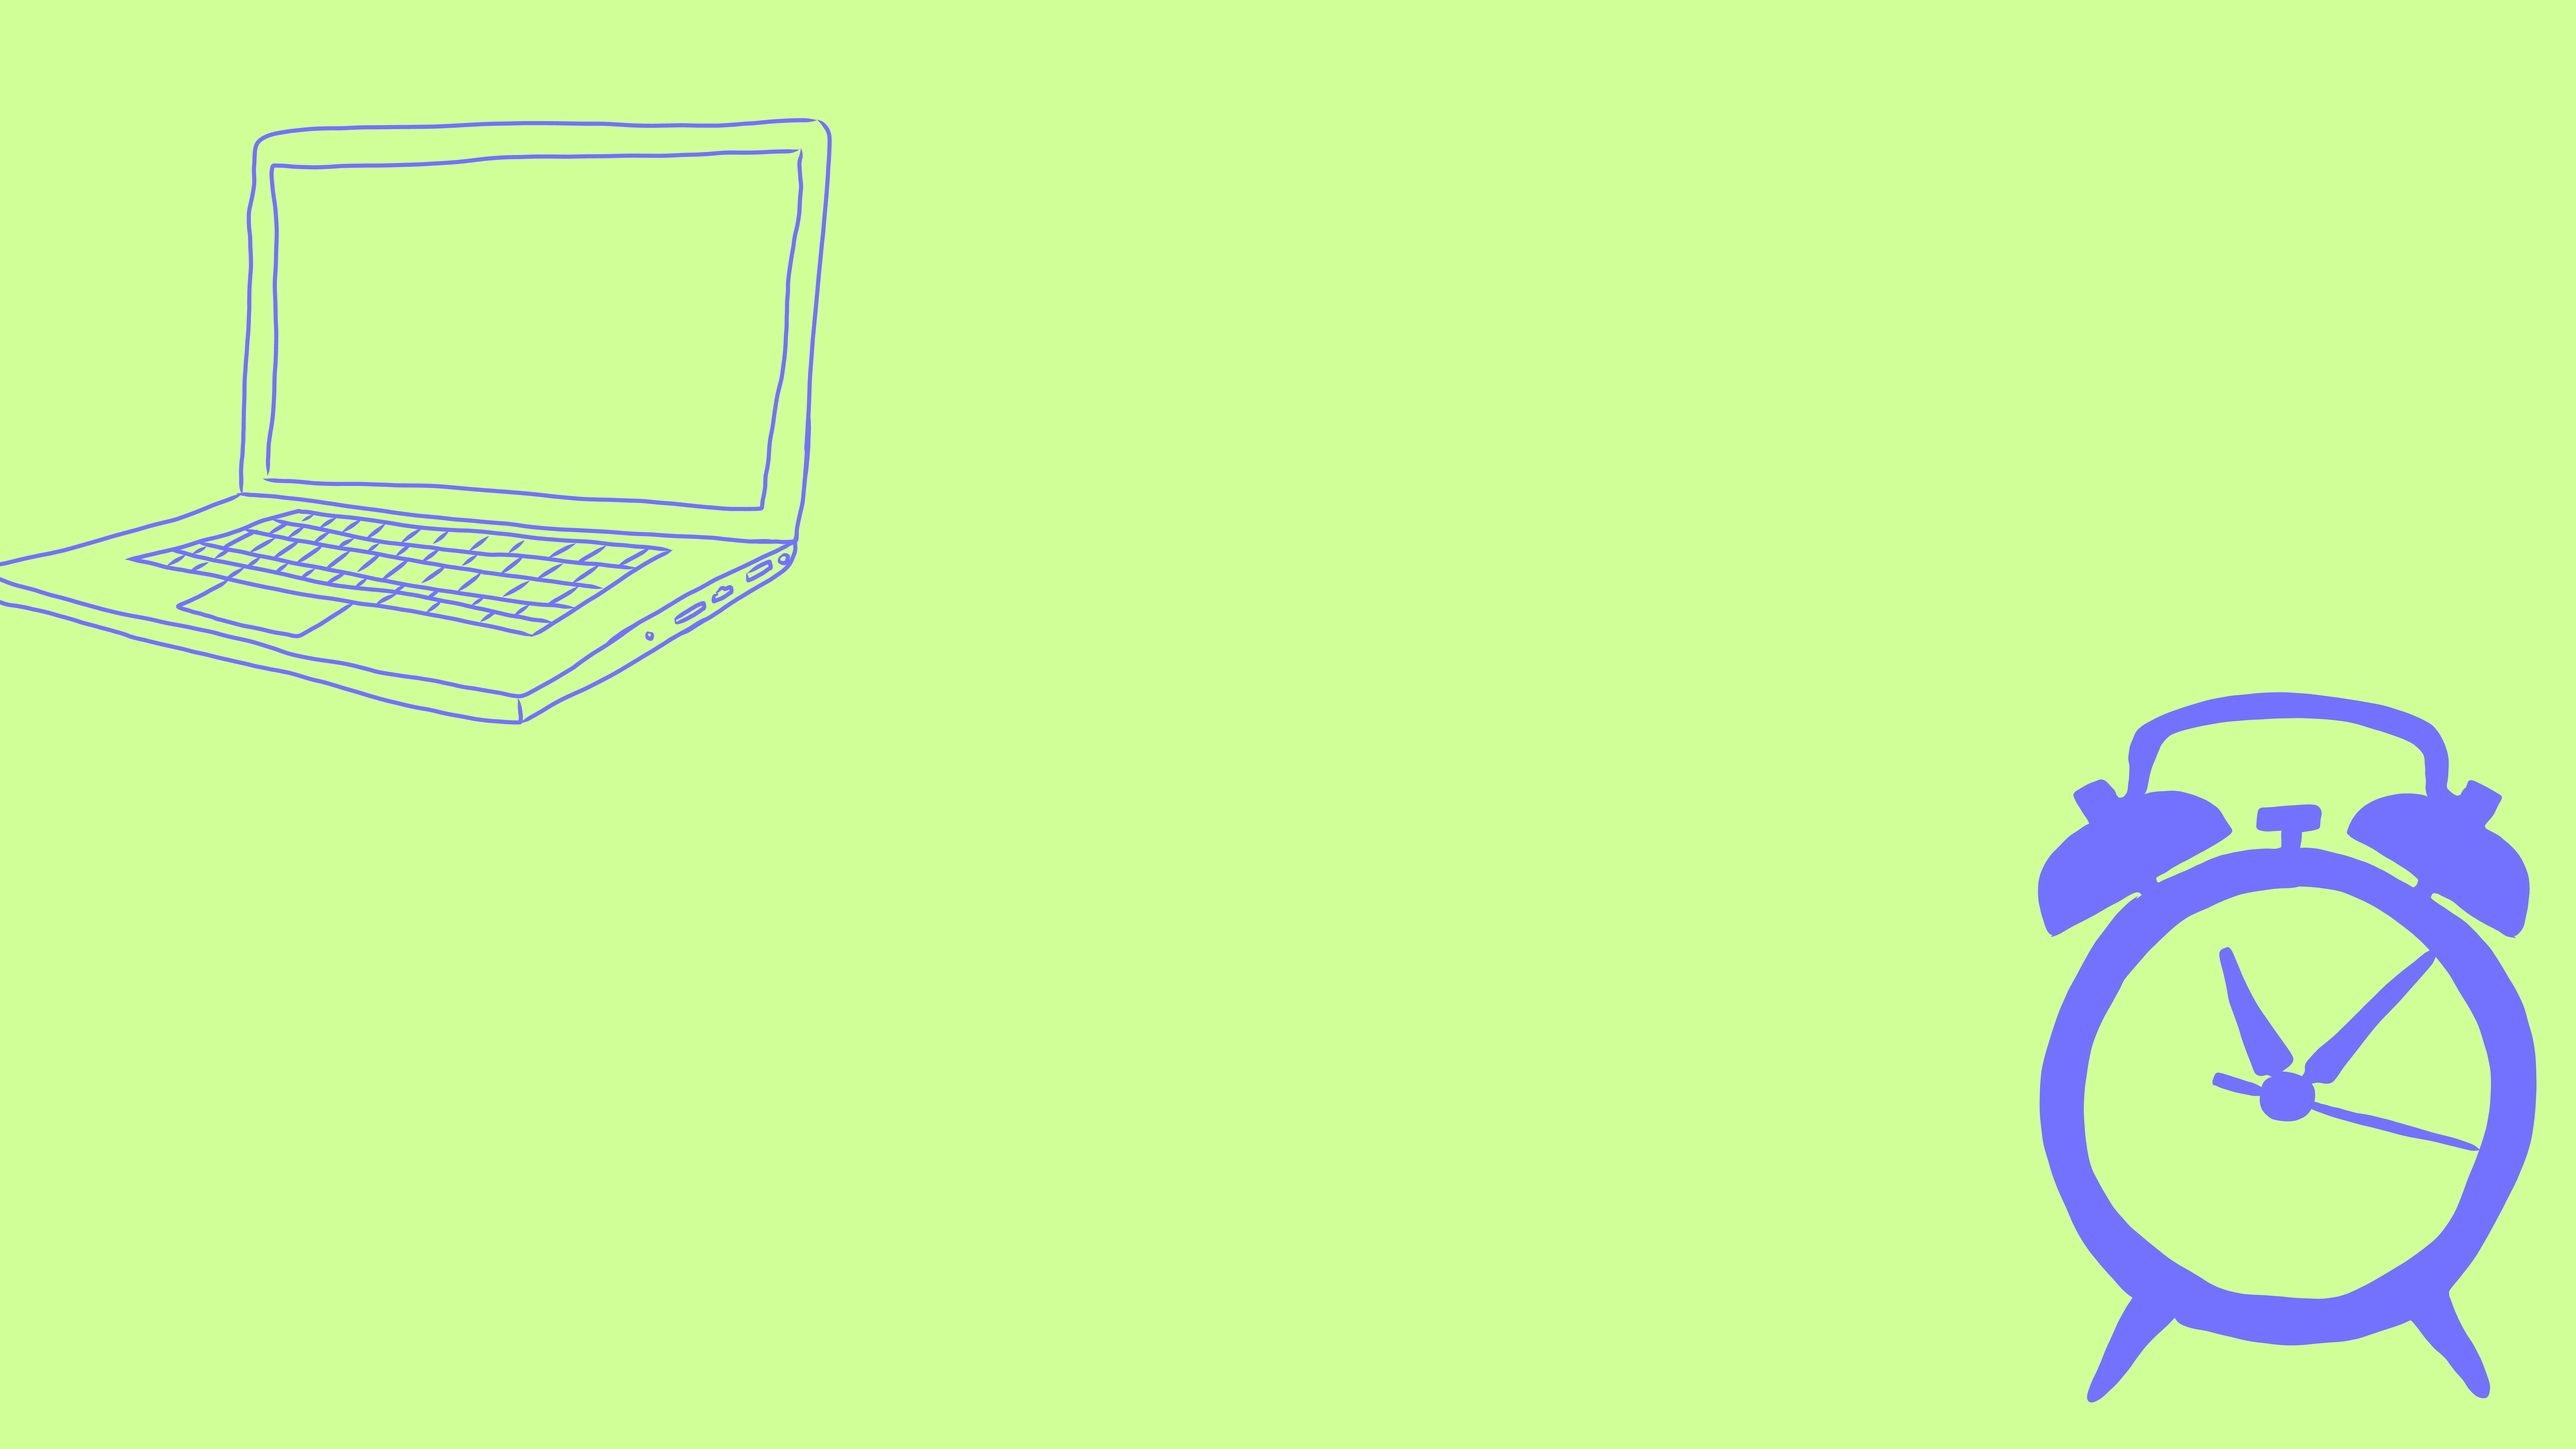
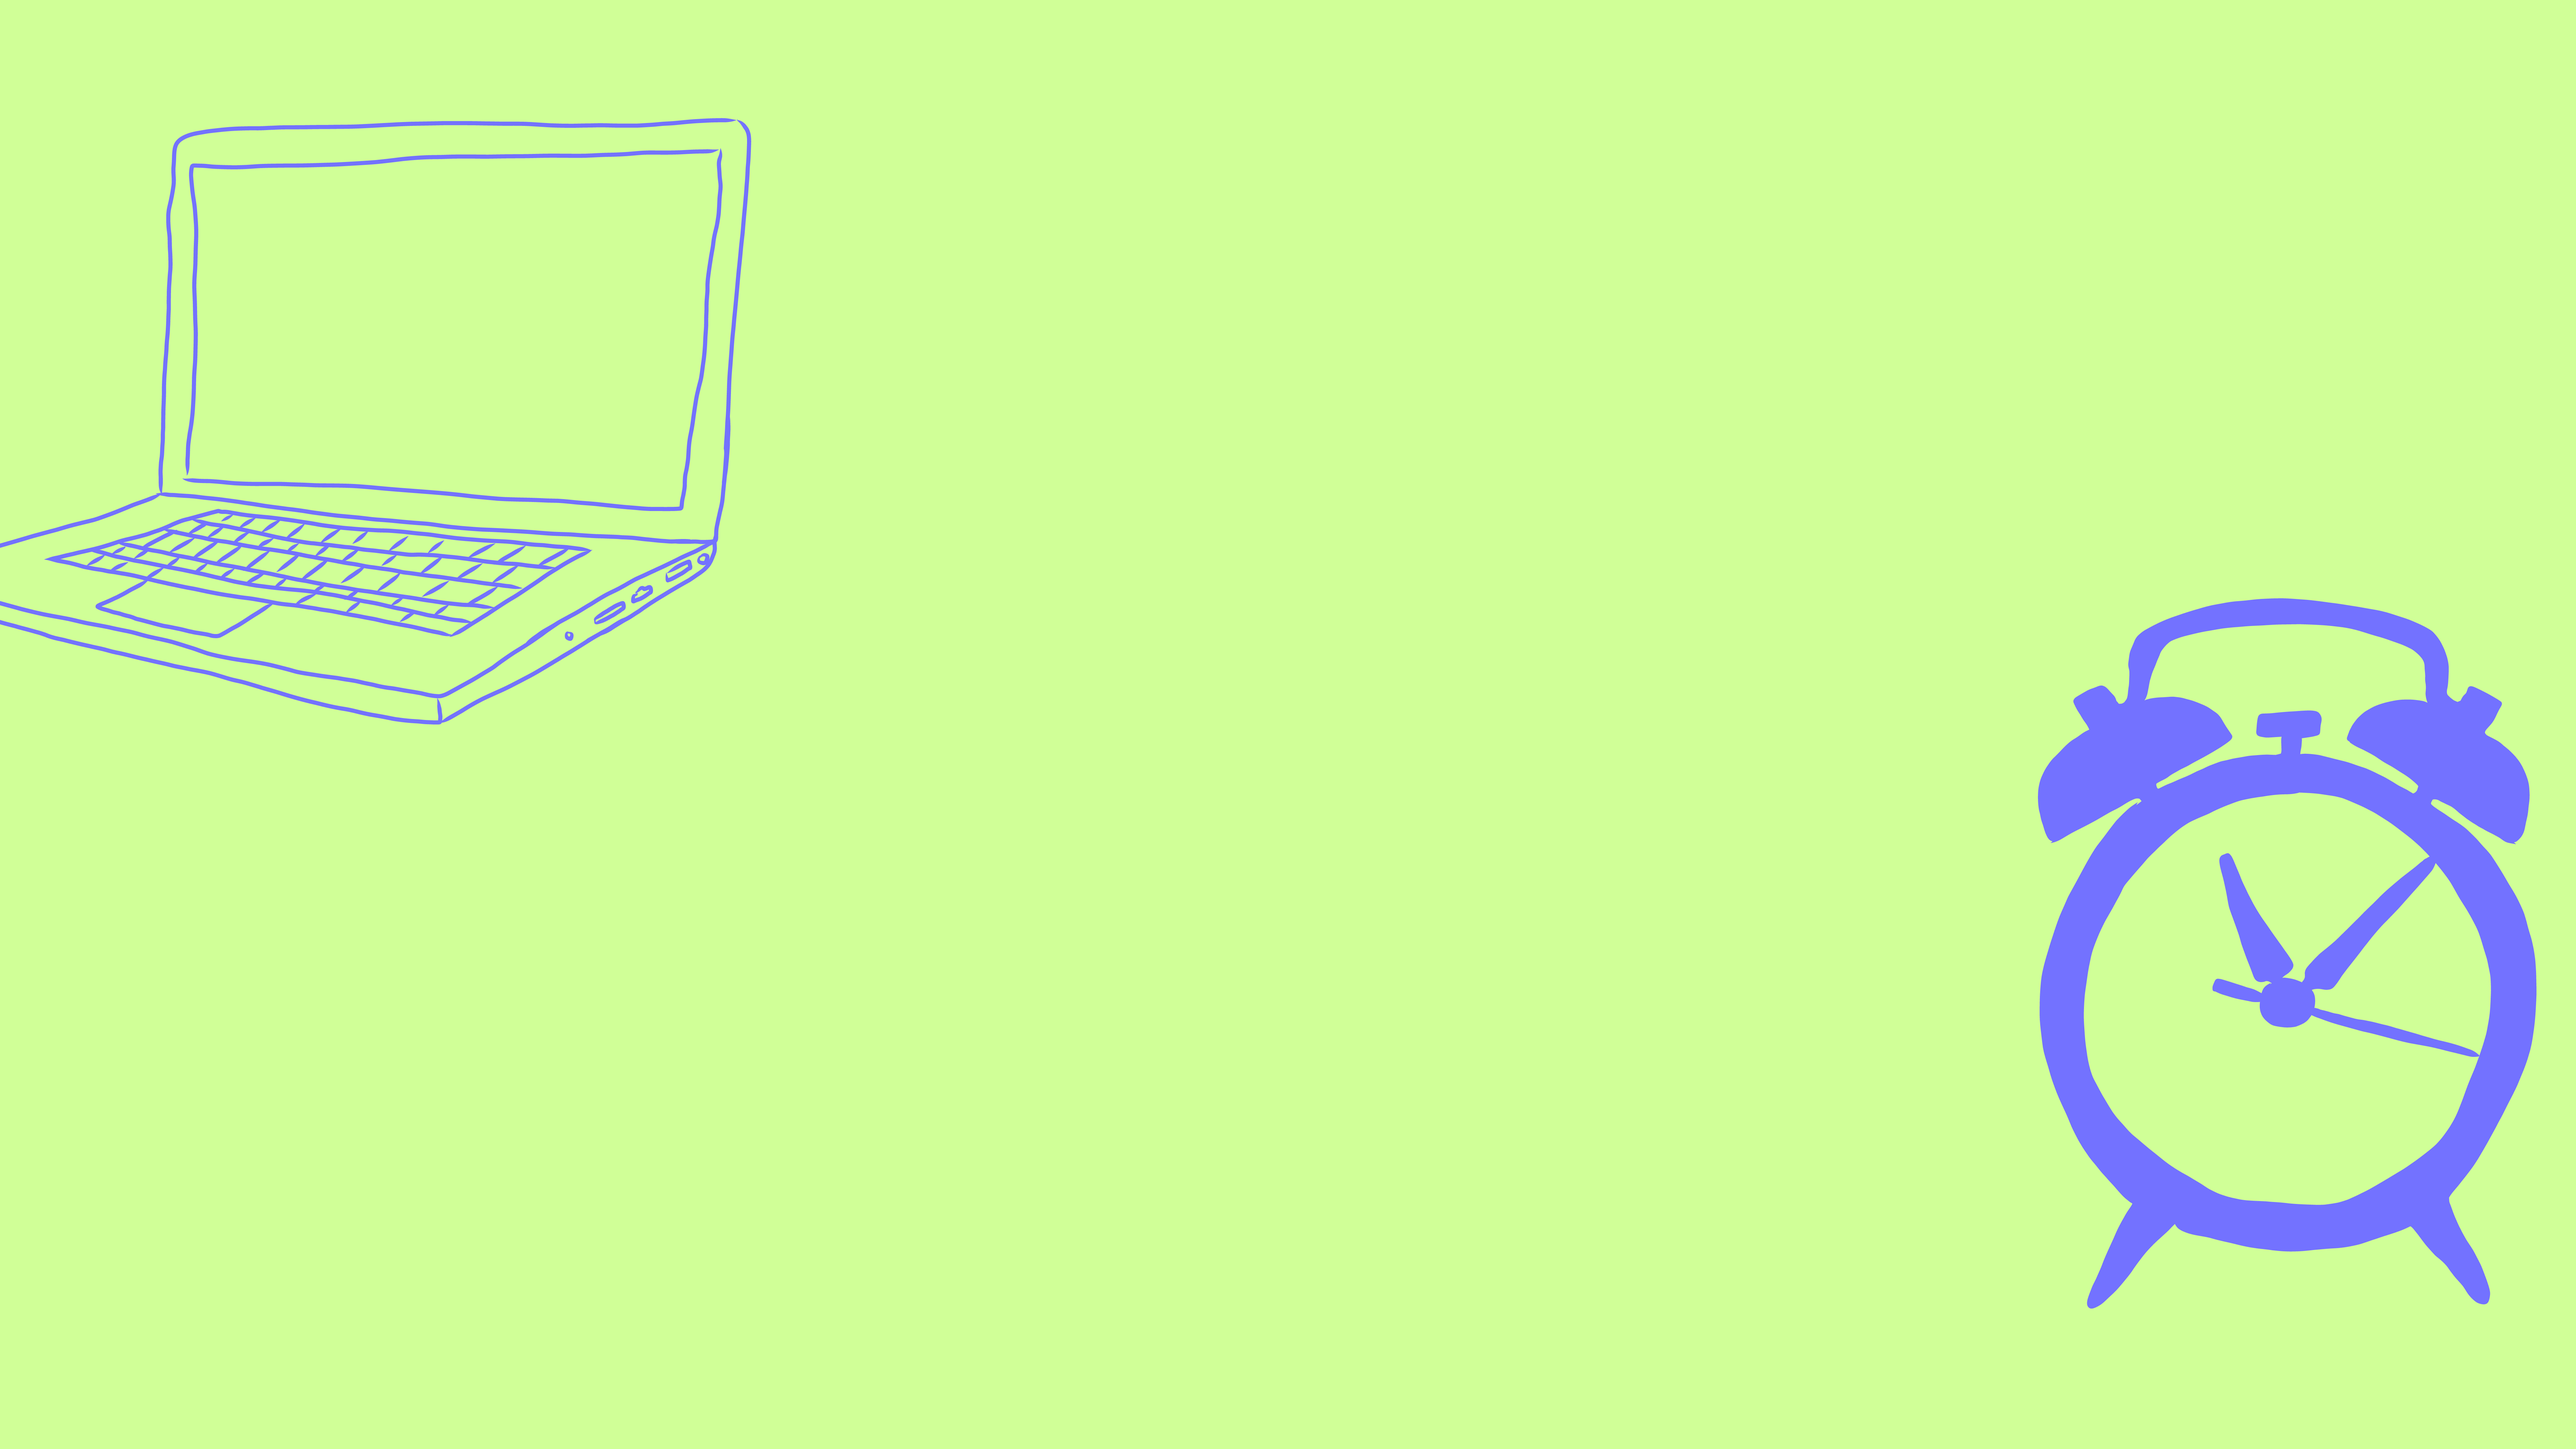
homepage and wake up styling

Changed region(s): [[0.7812, 0.4044, 1.0, 0.9644], [0.0, 0.0622, 0.3125, 0.4978]]

diff --git a/frontend/src/components/story/WakeUp.js b/frontend/src/components/story/WakeUp.js
@@ -44,12 +44,13 @@ class WakeUp extends React.Component {
 
   render() {
     return (
+      <header class="wakeup-masthead masthead">
       <Container>
         <Row className="justify-content-md-center">
           <Col md="auto">
-            <Card style={{ width: '35rem' }}>
+            <Card style={{ width: '70rem' }}>
               <Card.Body>
-                <Card.Title>Wake up.</Card.Title>
+                <Card.Title className="small-title">Wake up.</Card.Title>
                 <Card.Text>
                   <p>Today's the day. It’s the morning of your interview. </p>
                   <p>What time is it? You check the clock. Two minutes until your alarm goes off. </p>
@@ -64,31 +65,32 @@ class WakeUp extends React.Component {
                   <p>You remember that you are taking a step towards a career that you are passionate about.</p>
                   <p>You know your developer skills are valuable and you’re excited to show someone what you can do.</p>
                   <p>You’ve got this!</p>
-                  <p>After showering, it’s time to grab the outfit you planned the night before:</p>
-                </Card.Text>
+                  <p>After showering, <span className="bold-text">it’s time to grab the outfit you planned the night before:</span></p>
                 <div>
                   {this.state.clicked &&
                     <div>
-                      <Link to={'/intown'}><Button variant="outline-dark">You have some breakfast and hit the road.</Button></Link>
+                      <Link to={'/intown'}><Button className="btn btn-secondary">You have some breakfast and hit the road.</Button></Link>
                     </div>
                   }
                 </div>
-                <br />
+                  <br />
+                </Card.Text>
                   <Row className="justify-content-md-center">
                     {this.state.businesses.map(business => {
                       return <div key={business.name}>
                         <Col md="auto">
-                          <button onClick={this.handleClick}><img src={business.image} alt={business.name} height="225" width="225" /></button>
+                          <button className="no-border" onClick={this.handleClick}><img src={business.image} alt={business.name} height="200" width="200" /></button>
                         </Col>
                       </div>
                     })
-                    }
+                  }
                   </Row>
               </Card.Body>
             </Card>
           </Col>
         </Row>
       </Container>
+      </header>
     )
   }
 }

diff --git a/frontend/src/App.scss b/frontend/src/App.scss
@@ -1,21 +1,67 @@
 
 // resources: https://scotch.io/starters/react/adding-sass-to-create-react-app-applications, https://create-react-app.dev/docs/adding-bootstrap/#using-a-custom-theme
+@import url('https://fonts.googleapis.com/css?family=Spartan|Staatliches&display=swap');
 
 body {
-  background-image: url('./assets/homepage2-01.png');
-  background-size: cover;
-  background-repeat: no-repeat;
   margin: 0;
-  font-family: -apple-system, BlinkMacSystemFont, 'Segoe UI', 'Roboto', 'Oxygen',
-    'Ubuntu', 'Cantarell', 'Fira Sans', 'Droid Sans', 'Helvetica Neue',
-    sans-serif;
+  // font-family: -apple-system, BlinkMacSystemFont, 'Segoe UI', 'Roboto', 'Oxygen',
+    // 'Ubuntu', 'Cantarell', 'Fira Sans', 'Droid Sans', 'Helvetica Neue',
+    // sans-serif;
   -webkit-font-smoothing: antialiased;
   -moz-osx-font-smoothing: grayscale;
   text-align: center;
+  font-family: 'Spartan';
+  font-size: 15px;
 }
 
-title {
-  font-size: 36px;
+.masthead {
+  height: 100vh;
+  min-height: 500px;
+  background-size: cover;
+  background-position: center;
+  background-repeat: no-repeat;
+}
+
+.homepage-masthead {
+  background-image: url('./assets/homepage2-01.png');
+}
+
+.wakeup-masthead {
+  background-image: url('./assets/wakeup-01.png');
+}
+
+.card {
+  background-color: transparent;
+  border: none;
+}
+
+.main-title {
+  font-size: 80px;
+  font-family: 'Staatliches';
+  color: #7372FF;
+}
+
+.small-title {
+  font-family: 'Staatliches';
+  font-size: 40px;
+  color: #7372FF;
+}
+
+p {
+margin: 5px;
+padding: 0;
+color: #7372FF;
+font-weight: bold;
+}
+
+.bold-text {
+  // font-weight: 900;
+  text-decoration: underline;
+}
+
+.no-border {
+  border: none;
+  padding: 0;
 }
 
 sub {

diff --git a/frontend/src/components/common/Home.js b/frontend/src/components/common/Home.js
@@ -8,17 +8,26 @@ import Auth from '../../lib/auth'
 //show 'begin your story' button if you are > look at quiz homepage 
 
 const Home = () => (
-    <div>
-      <h1 className="title">Let's Interview</h1>
+    <header className="homepage-masthead masthead">
+      <div className="h-100 row align-items-center">
+      <div className="col">
+        <h1 className="main-title">Let's Interview!</h1>
+
       {!Auth.isAuthenticated() &&
-        <h2 className="sub">Please register or login to play</h2>
+        // <h2 className="sub">Please register or login to play</h2>
+        <Link to={'/login'}>
+        <Button variant="secondary" className="btn btn-secondary" size="lg">Register or login to play</Button>
+      </Link>
       }
       {Auth.isAuthenticated() &&
       <Link to={'/wakeup'}>
-        <Button variant="secondary" size="lg">START YOUR STORY</Button>
+        <Button variant="secondary" className="btn btn-secondary" size="lg">Start your story</Button>
       </Link>
       }
-    </div>
+
+      </div>
+      </div>
+    </header>
 )
 
 export default Home

diff --git a/frontend/src/components/common/Navigation.js b/frontend/src/components/common/Navigation.js
@@ -27,12 +27,14 @@ class Navigation extends React.Component {
 
   render() {
     return (
-      <Navbar bg="dark" variant="dark">
-        <Navbar.Brand href="/">Home</Navbar.Brand>
+      <Navbar bg="" variant="light">
         <Nav className="mr-auto">
+        <Nav.Link href="/">Home</Nav.Link>
           {Auth.isAuthenticated() && <Nav.Link href="/wakeup">Story</Nav.Link>}
           {!Auth.isAuthenticated() && <Nav.Link href="/register">Register</Nav.Link>}
           {!Auth.isAuthenticated() && <Nav.Link href="/login">Login</Nav.Link>}
+        </Nav>
+        <Nav className="mr-sm-2">
           {Auth.isAuthenticated() && <Button onClick={this.handleLogout} variant="outline-secondary">Logout</Button>}
         </Nav>
       </Navbar>

diff --git a/frontend/src/components/story/GoOne.js b/frontend/src/components/story/GoOne.js
@@ -27,6 +27,7 @@ class GoOne extends React.Component {
     console.log(this.state.score)
     return (
       <>
+      <header class="goone-masthead">
       {!this.state.interview &&
         <Container>
           <Row className="justify-content-md-center">
@@ -48,6 +49,7 @@ class GoOne extends React.Component {
       {this.state.interview &&
           <Interview score={this.state.score} />
         }
+        </header>
       </>
     )
   }
